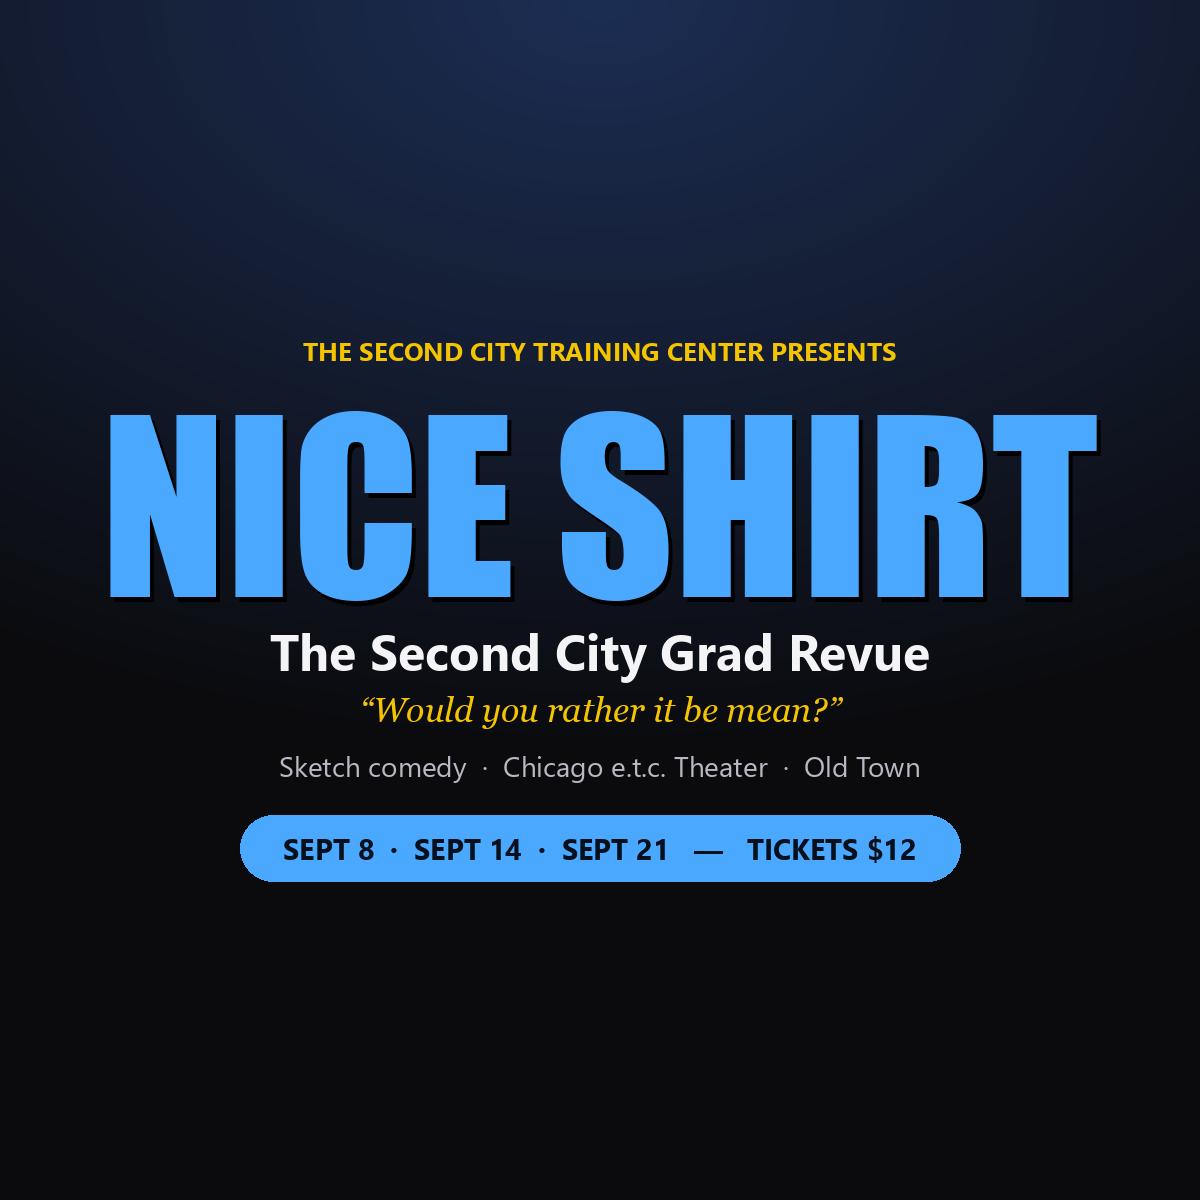
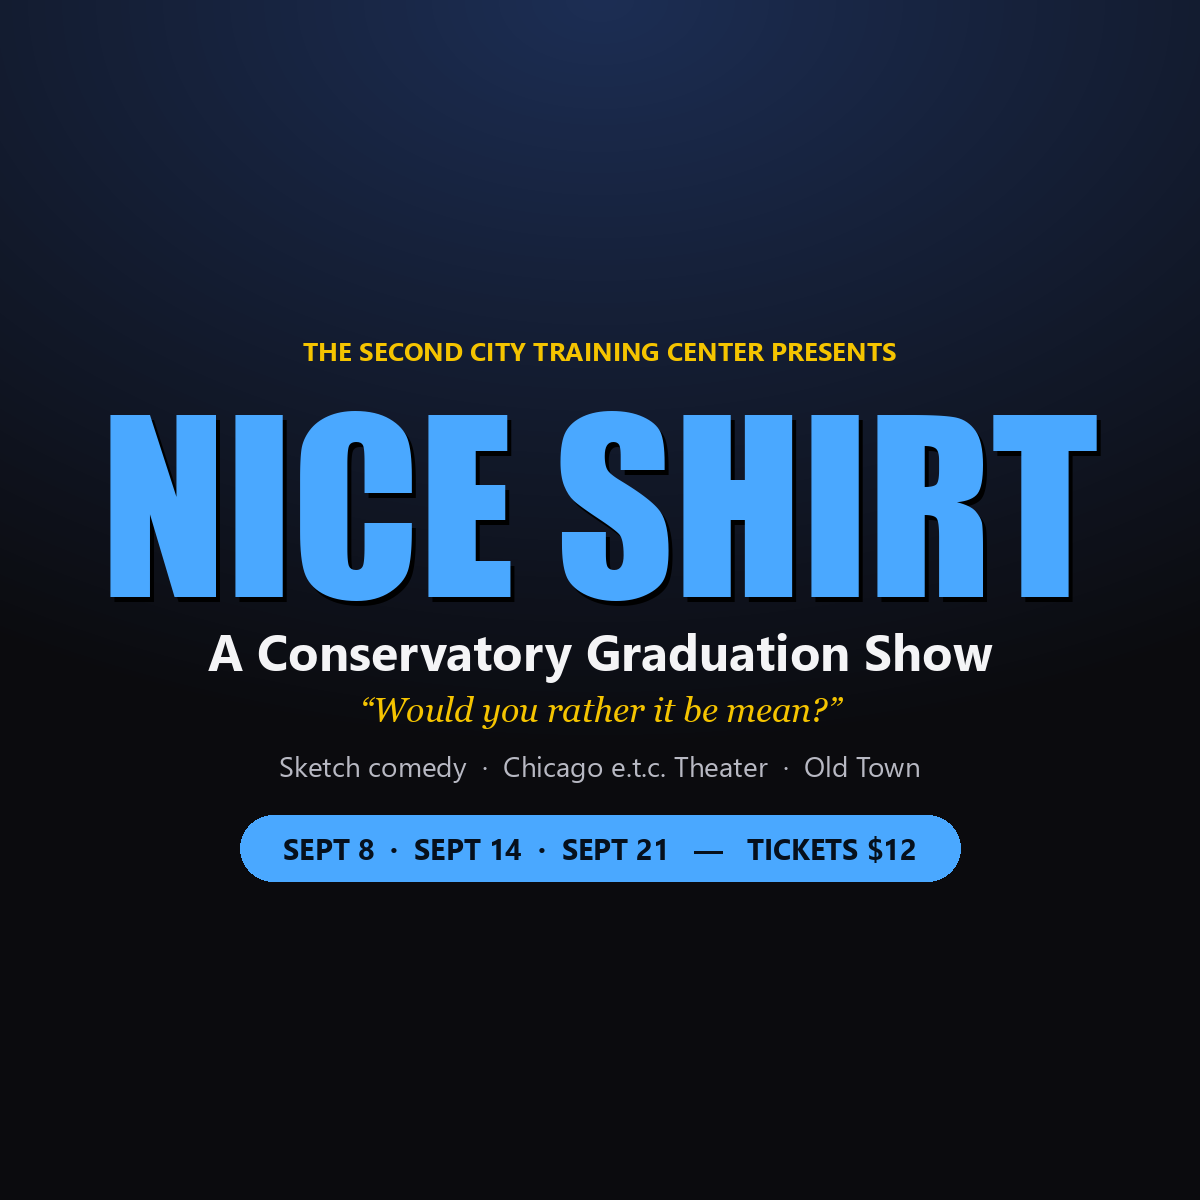
v0.8.3 - OG card and event images say 'A Conservatory Graduation Show' under the title (the kicker already says The Second City); ?v=3 on the social image URL so scrapers refetch

Changed region(s): [[0.1542, 0.5242, 0.8325, 0.5858]]

diff --git a/index.html b/index.html
@@ -3,8 +3,8 @@
 <head>
 <meta charset="UTF-8">
 <meta name="viewport" content="width=device-width, initial-scale=1.0">
-<title>NICE SHIRT v0.8.2 · Second City Grad Revue · Chicago Sketch & Improv</title>
-<meta name="app-version" content="0.8.2">
+<title>NICE SHIRT v0.8.3 · Second City Grad Revue · Chicago Sketch & Improv</title>
+<meta name="app-version" content="0.8.3">
 <meta name="description" content="NICE SHIRT, The Second City Grad Revue: original sketch comedy and improv at the Chicago e.t.c. Theater in Old Town. Sept 8, 14 & 21, 2026. Tickets $12.">
 <meta name="keywords" content="NICE SHIRT, Second City, Second City improv, Second City sketch comedy, Second City Grad Revue, Second City Conservatory, Second City Training Center, Chicago improv, Chicago sketch comedy, Chicago comedy shows, Old Town Chicago comedy, e.t.c. Theater, Piper's Alley, comedy shows Chicago September 2026, Waiting for the Punchline">
 <meta name="author" content="NICE SHIRT cast">
@@ -25,16 +25,16 @@
 <meta property="og:title" content="NICE SHIRT — The Second City Grad Revue | Chicago Sketch & Improv Comedy">
 <meta property="og:description" content="A Second City Conservatory graduation show. Original sketch comedy at the Chicago e.t.c. Theater, Sept 8, 14 &amp; 21, 2026. Tickets $12. Would you rather it be mean?">
 <meta property="og:url" content="https://niceshirt.rizzo.cc/">
-<meta property="og:image" content="https://niceshirt.rizzo.cc/assets/og.png">
+<meta property="og:image" content="https://niceshirt.rizzo.cc/assets/og.png?v=3">
 <meta property="og:image:width" content="1200">
 <meta property="og:image:height" content="630">
 <meta property="og:image:type" content="image/png">
-<meta property="og:image:alt" content="NICE SHIRT — The Second City Grad Revue">
+<meta property="og:image:alt" content="NICE SHIRT, a Second City Conservatory graduation show: Sept 8, 14 and 21 at the Chicago e.t.c. Theater, tickets $12">
 <meta property="og:locale" content="en_US">
 <meta name="twitter:card" content="summary_large_image">
 <meta name="twitter:title" content="NICE SHIRT — The Second City Grad Revue | Chicago Sketch & Improv Comedy">
 <meta name="twitter:description" content="A Second City Conservatory graduation show. Original sketch comedy at the Chicago e.t.c. Theater, Sept 8, 14 &amp; 21, 2026. Tickets $12.">
-<meta name="twitter:image" content="https://niceshirt.rizzo.cc/assets/og.png">
+<meta name="twitter:image" content="https://niceshirt.rizzo.cc/assets/og.png?v=3">
 
 <link rel="preconnect" href="https://fonts.googleapis.com">
 <link rel="preconnect" href="https://fonts.gstatic.com" crossorigin>
@@ -623,13 +623,13 @@ footer a:hover{color:#fff}
 <footer>
   <div class="wrap">
     NICE SHIRT &middot; The Second City Grad Revue &middot; Chicago e.t.c. Theater
-    <span class="ver">v0.8.2</span><span class="hits" id="hits" hidden></span>
+    <span class="ver">v0.8.3</span><span class="hits" id="hits" hidden></span>
     <div style="margin-top:8px"><a href="https://rizzo.cc/">rizzo.cc</a></div>
   </div>
 </footer>
 
 <script>
-const APP_VERSION = '0.8.2';
+const APP_VERSION = '0.8.3';
 
 /* Footer visit counter (hits-worker, a Cloudflare Durable Object per site). One count per browser
    session; devices opted out of GA with ?ga=off are not counted; the pill stays hidden if the
